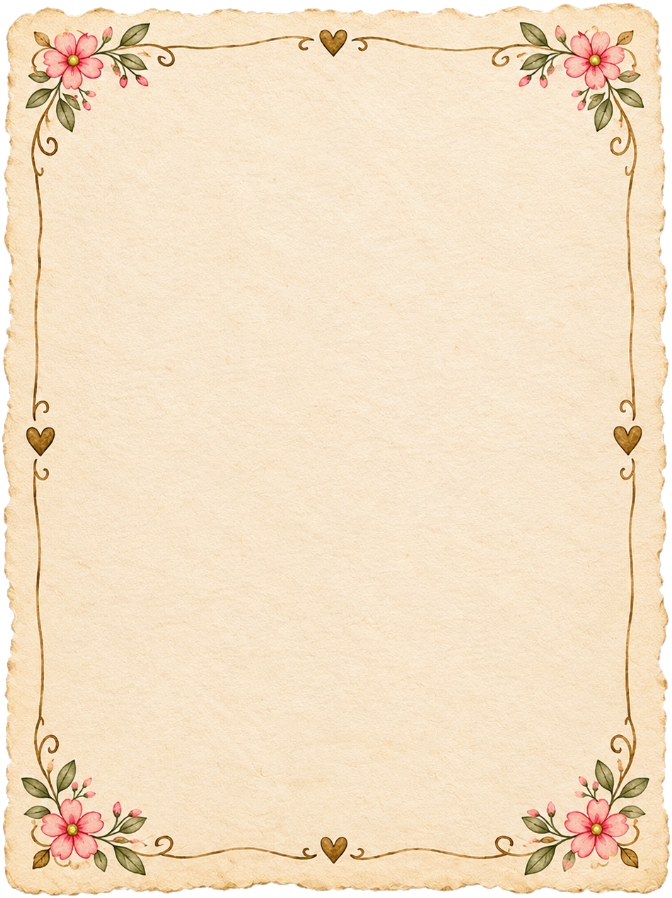
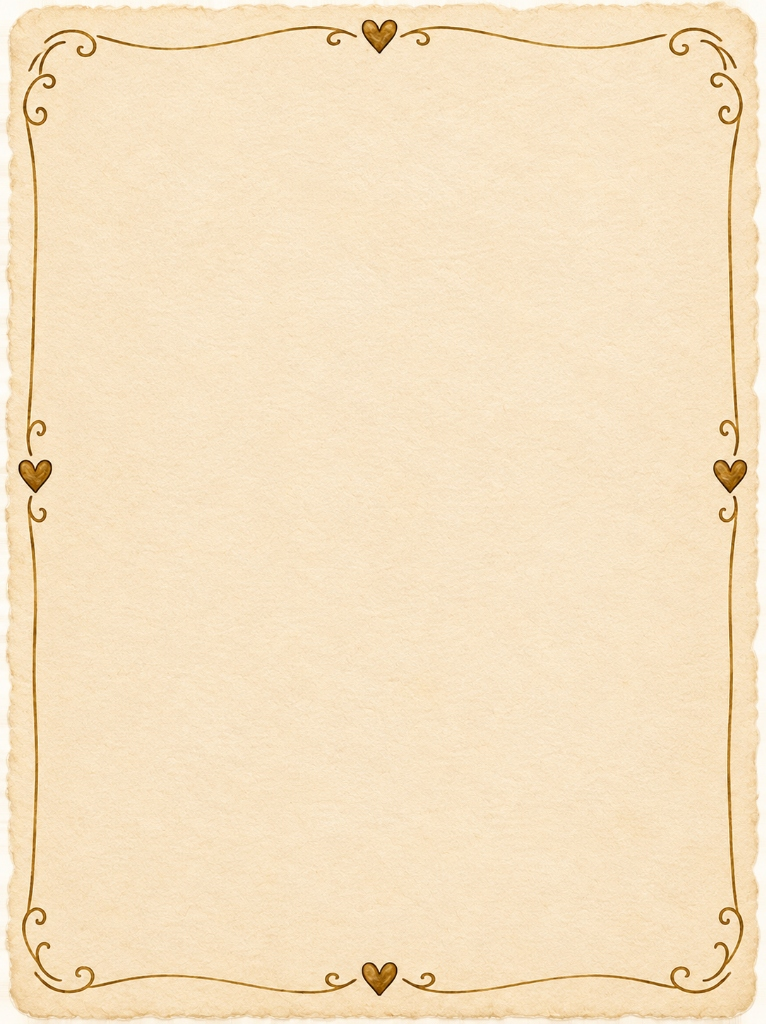
Update background image and styling for hero invitation card and family card

Changed region(s): [[0.0, 0.0, 1.0, 1.0]]

diff --git a/styles.css b/styles.css
@@ -612,13 +612,13 @@ select:focus-visible {
     position: relative;
     width: 100%;
     max-width: 520px;
-    aspect-ratio: 672 / 898;
+    aspect-ratio: 768 / 1024;
     background-image: url("assets/family-paper-bg.png");
     background-size: 100% 100%;
     background-position: center center;
     background-repeat: no-repeat;
-    /* Safe inner padding so no text touches borders, deckled edges, or corner flowers */
-    padding: clamp(38px, 9.5%, 58px) clamp(30px, 9.5%, 52px) clamp(32px, 8%, 48px);
+    /* Safe inner padding so no text touches borders, deckled edges, or corner flourishes */
+    padding: clamp(44px, 11%, 64px) clamp(34px, 10.5%, 54px) clamp(38px, 9.5%, 54px);
     display: flex;
     flex-direction: column;
     align-items: center;
@@ -2816,7 +2816,7 @@ select:focus-visible {
     position: relative;
     width: min(430px, 92vw);
     height: clamp(560px, 78vh, 660px);
-    aspect-ratio: 672 / 898;
+    aspect-ratio: 768 / 1024;
     border-radius: 0;
     box-sizing: border-box;
     overflow: visible;
